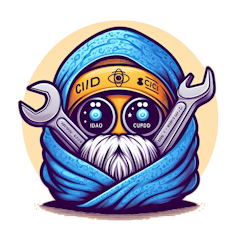
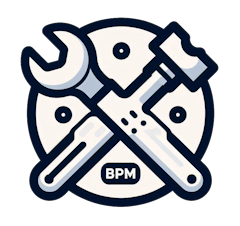
update README

diff --git a/src/extension.ts b/src/extension.ts
@@ -15,13 +15,13 @@ import { WebAppManager } from './managers/webappmanager';
 const bpmPackagesPattern = `${hash()}_bpmPackages`;
 
 function checkWorkspaceSettings() {
-	const generalConfig = vscode.workspace.getConfiguration('bpmwrapper.general');
+	const generalConfig = vscode.workspace.getConfiguration('bpmtoolkit.general');
 	ExtensionSettings.selectedUtility = generalConfig.get<string>('utility')!;
 	ExtensionSettings.autoUpdateTime = generalConfig.get<boolean>('autoUpdateTime')!;
 	ExtensionSettings.outputPath = generalConfig.get<string>('outputPath')!;
 
-	const serverConfig = vscode.workspace.getConfiguration('cwSettings');
-	ExtensionSettings.environments = serverConfig.get<serverSettings[]>('cwEnvironments');
+	const serverConfig = vscode.workspace.getConfiguration('bpmtoolkit');
+	ExtensionSettings.environments = serverConfig.get<serverSettings[]>('environments');
 
 	if (ExtensionSettings.environments && ExtensionSettings.environments.length > 0) {
 		vscode.commands.executeCommand('setContext', 'isShowContextMenu', true);

diff --git a/README.md b/README.md
@@ -1,6 +1,8 @@
-# cliowrapper
+# BPM Remote Toolkit
 
 The extension creates packages with the extension **.gz** and installs them in the target environment.
+
+Support Creatio and BPMSoft.
 
 ## Features
 
@@ -14,25 +16,36 @@ In the **Workspace** area of Visual Studio Code, right-click on the folder and s
 
 ## Requirements
 
+### For Creatio
+
 Install clio before using the extension:
 
 `dotnet tool install clio -g`
 
 > Command Line Interface clio is the utility for integration Creatio platform with development and CI/CD tools.
 
+### For BPMSoft
+
+Download Utilities Of BPMSoft and register this utility before using the extension:
+
+- Run the **ubs.exe** application as an administrator in the folder where the archive was unzipped;
+- In the console window, type **register**, press Enter, then Enter again to close the console;
+
 ## Extension Settings
 
 This extension contributes the following settings:
 
-* `clio.autoUpdateTime`: When saving changes to cs or js files, automatically updates the ModifiedOnUtc field in the Descriptor.json file.
-* `clio.outputPath`: Specify output full path for .gz file.
+* `bpmtoolkit.general.utility`: Select active utility
+* `bpmtoolkit.general.autoUpdateTime`: When saving changes to cs or js files, automatically updates the ModifiedOnUtc field in the Descriptor.json file.
+* `bpmtoolkit.general.outputPath`: Specify output full path for .gz file.
 
 ## Settings For .code-workspace file
 
 - `id`: Identifier web application
 - `url`: Web application url address.
+- `isNetCore`: Target platform (**true** for .NET Core, **false** for .NET Framework)
 - `gitBranchName`: Name of the branch associated with the target environment.
-- `isEnable`: Availability of actions in view area **Bpmsoft Environments**.
+- `isEnable`: Availability of actions in view area **Bpm Environments**.
 
 **For example**:
 
@@ -44,23 +57,26 @@ This extension contributes the following settings:
 		}
 	],
 	"settings": {
-		"cwSettings": {
-			"cwEnvironments": [
+		"bpmtoolkit": {
+			"environments": [
 				{
 					"id": "test",
 					"url": "https://test.contoso.com",
+					"isNetCore": false,
 					"gitBranchName": "test",
 					"isEnable": true
 				},
 				{
 					"id": "preprod",
 					"url": "https://preprod.contoso.com",
+					"isNetCore": false,
 					"gitBranchName": "preprod",
 					"isEnable": true
 				},
 				{
 					"id": "prod",
 					"url": "https://prod.contoso.com",
+					"isNetCore": false,
 					"gitBranchName": "master",
 					"isEnable": false
 				}
@@ -70,7 +86,7 @@ This extension contributes the following settings:
 }
 ```
 
-> You need to set up the file `.code-workspace` to display items in view **Bpmsoft Environments**.
+> You need to set up the file `.code-workspace` to display items in view **Bpm Environments**.
 
 ## Known Issues
 
@@ -78,7 +94,10 @@ NONE
 
 ## Release Notes
 
-## 1.6.x
+## 1.7.x
 
 - Update README
-- Added new extension setting: `clio.autoUpdateTime`
+- Added support Utilities Of BPMSoft (UBS)
+- Updated extension display name and icon
+- Updated .code-workspace file structure
+- Minor corrections and improvements

diff --git a/CHANGELOG.md b/CHANGELOG.md
@@ -1,5 +1,10 @@
 # Change Log
 
+## 1.6.x
+
+- Update README
+- Added new extension setting: `clio.autoUpdateTime`
+
 ## 1.5.x
 
 - Update README
